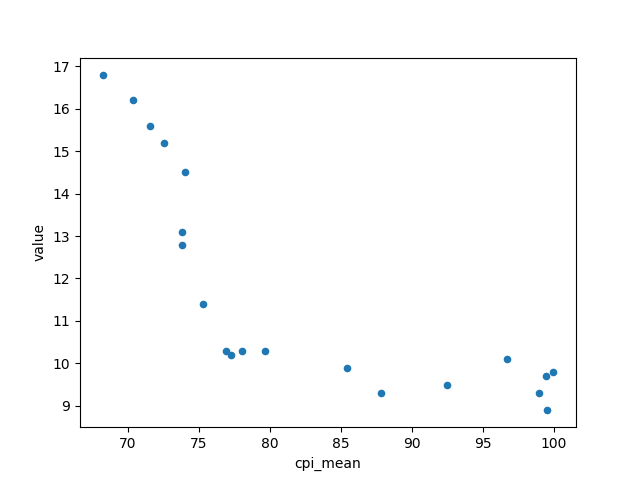
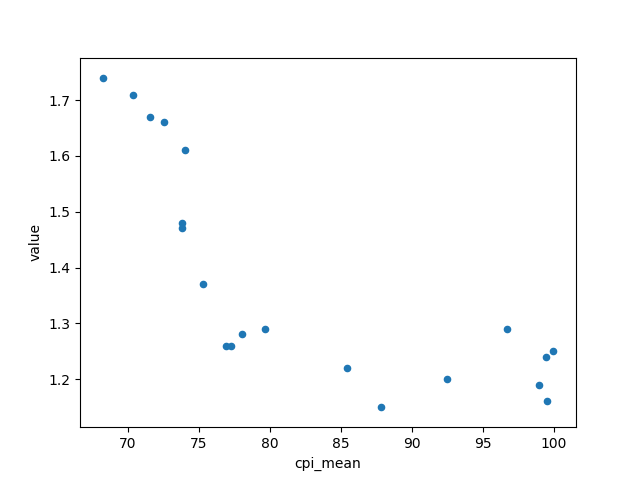
Changed ydata from birth rate to fertility rate

diff --git a/projects.html b/projects.html
@@ -74,6 +74,7 @@
               <ol>
                 <li>Crude Birth Rates, Annually</li>
                 <li>Marriages under the Womens' Charter, Annually</li>
+                <li>Total Fertility Rate, Annually (I actually made a huge mistake and mixed up birth rates and TFR, so I had to redo some of my training)</li>
               </ol>
               <p>
                 All the data was obtained from data.gov in csv file format.
@@ -114,8 +115,8 @@
             <div class="post-part">
               <h3>Step 3: Data Exploration</h3>
               <p>
-                Now that the data has been prettified, it is time for some visualisation to gain insights on the data on hand. From here on, I will foxus on crude
-                birth rates as the predicted y value.
+                Now that the data has been prettified, it is time for some visualisation to gain insights on the data on hand. From here on, I will foxus on total Fertility
+                rate as the predicted y value.
                 <br><br>
                 First, I combined all the features into one large features dataframe. I was initially considering adding polynomial features and performing PCA
                 to narrow down the feature space, but after performing train-test split, my number of data points and number of features became comaparable and I did not
@@ -123,63 +124,61 @@
                 <br><br>
                 Next, I looked at the correlations between the y data and each of the features. By using the pandas .coor() function, I obtained a list of
                 correlations.
-                <br><br>
-                <b>Crude birth rate</b>
               </p>
               <div class="code">
                 <pre class="command-line" data-user="kait" data-host="localhost" data-output="2-25">
 <code class="language-bash">python3 regression_methods.py
 value            1.000000
-overtime_mean    0.850188
-jobvac_mean      0.780938
-jobvac_std       0.737394
-jobvac_corr      0.626325
-overtime_std     0.589957
-cpi_corr         0.462497
-unemp_dir        0.253608
-labcost_dir      0.090970
-unemp_std        0.019510
-labcost_corr     0.010615
-labcost_std     -0.051549
-cpi_dir         -0.126641
-unemp_corr      -0.228851
-overtime_corr   -0.251386
-cpi_std         -0.264826
-overtime_dir    -0.418650
-labcost_mean    -0.440134
-unemp_mean      -0.516196
-jobvac_dir      -0.708656
-cpi_mean        -0.781216
-gdp_value       -0.837611
-year            -0.927946
+overtime_mean    0.854868
+jobvac_mean      0.776832
+jobvac_std       0.736551
+jobvac_corr      0.624030
+overtime_std     0.567258
+cpi_corr         0.464942
+unemp_dir        0.249930
+labcost_dir      0.120821
+labcost_corr     0.029503
+unemp_std        0.014350
+labcost_std     -0.076240
+cpi_dir         -0.132496
+unemp_corr      -0.192243
+overtime_corr   -0.243318
+cpi_std         -0.272496
+labcost_mean    -0.414698
+overtime_dir    -0.427331
+unemp_mean      -0.523999
+jobvac_dir      -0.724803
+cpi_mean        -0.767823
+gdp_value       -0.827605
+year            -0.918486
 Name: value, dtype: float64</code>
                 </pre>
               </div>
               <p>
-                Here you can see that "year" is most highly correlated with the birth rate, which may present as a problem by creating a model that suggests that Singapore's
-                falling birth rate is inevitable. "Overtime_mean" is also highly correlated with crude birth rate, however there is the problem of correlation vs. causation,
+                Here you can see that "year" is most highly correlated with the TFR, which may present as a problem by creating a model that suggests that Singapore's
+                falling birth rate is inevitable. "Overtime_mean" is also highly correlated with TFR, however there is the problem of correlation vs. causation,
                 and the causal effect between these two variables is unclear.
                 <br><br>
-                To gain greater insights, I picked 6 of the features most linearly correlated with crude birth rates and plotted them all against each other in a scatter plot:
+                To gain greater insights, I picked 6 of the features most linearly correlated with total fertility rates and plotted them all against each other in a scatter plot:
               </p>
-              <img src="img/crude-birth-rate_corr_scatter.png" alt="crude-birth-rate scatter plot">
+              <img src="img/total-fertility-rate_corr_scatter.png" alt="total fertility rate scatter plot">
               <p>
-                From the scatter plot we can see that the relationship between "year" and birth rate more closely follows an exponential function, as well as with other factors
+                From the scatter plot we can see that the relationship between "year" and TFR more closely follows an exponential function, as well as with other factors
                 "gdp_value" and "cpi_mean". Thus, I performed an exponential decay function on these three features to hopefully give a better linear correlation between the
-                  features and the y value.
+                features and the y value.
               </p>
               <div id="feattransimages">
                 <div class="img-container">
-                  <img src="img/testingtrans_year.png" alt="crude birth rate vs. year scatter">
-                  <img src="img/testingtrans_decay_year.png" alt="crude birth rate vs. year (decay) scatter">
+                  <img src="img/testingtrans_year.png" alt="TFR vs. year scatter">
+                  <img src="img/testingtrans_decay_year.png" alt="TFR vs. year (decay) scatter">
                 </div>
                 <div class="img-container">
-                  <img src="img/testingtrans_cpi_mean.png" alt="crude birth rate vs. mean cpi scatter">
-                  <img src="img/testingtrans_decay_cpi_mean.png" alt="crude birth rate vs. mean cpi (decay) scatter">
+                  <img src="img/testingtrans_cpi_mean.png" alt="TFR vs. mean cpi scatter">
+                  <img src="img/testingtrans_decay_cpi_mean.png" alt="TFR vs. mean cpi (decay) scatter">
                 </div>
                 <div class="img-container">
-                  <img src="img/testingtrans_gdp_value.png" alt="crude birth rate vs. gdp scatter">
-                  <img src="img/testingtrans_decay_gdp_value.png" alt="crude birth rate vs. gdp (decay) scatter">
+                  <img src="img/testingtrans_gdp_value.png" alt="TFR vs. gdp scatter">
+                  <img src="img/testingtrans_decay_gdp_value.png" alt="TFR vs. gdp (decay) scatter">
                 </div>
               </div>
               <p>
@@ -191,31 +190,31 @@ Name: value, dtype: float64</code>
 <code class="language-bash">python3 regression_methods.py
 Correlation matrix for decay features:
 value              1.000000
-year_decay         0.989801
-gdp_value_decay    0.949187
-cpi_mean_decay     0.917802
-overtime_mean      0.850188
-jobvac_mean        0.780938
-jobvac_std         0.737394
-jobvac_corr        0.626325
-overtime_std       0.589957
-cpi_corr           0.462497
-unemp_dir          0.253608
-labcost_dir        0.090970
-unemp_std          0.019510
-labcost_corr       0.010615
-labcost_std       -0.051549
-cpi_dir           -0.126641
-unemp_corr        -0.228851
-overtime_corr     -0.251386
-cpi_std           -0.264826
-overtime_dir      -0.418650
-labcost_mean      -0.440134
-unemp_mean        -0.516196
-jobvac_dir        -0.708656
-cpi_mean          -0.781216
-gdp_value         -0.837611
-year              -0.927946
+year_decay         0.975068
+gdp_value_decay    0.937049
+cpi_mean_decay     0.904391
+overtime_mean      0.854868
+jobvac_mean        0.776832
+jobvac_std         0.736551
+jobvac_corr        0.624030
+overtime_std       0.567258
+cpi_corr           0.464942
+unemp_dir          0.249930
+labcost_dir        0.120821
+labcost_corr       0.029503
+unemp_std          0.014350
+labcost_std       -0.076240
+cpi_dir           -0.132496
+unemp_corr        -0.192243
+overtime_corr     -0.243318
+cpi_std           -0.272496
+labcost_mean      -0.414698
+overtime_dir      -0.427331
+unemp_mean        -0.523999
+jobvac_dir        -0.724803
+cpi_mean          -0.767823
+gdp_value         -0.827605
+year              -0.918486
 Name: value, dtype: float64</code>
                 </pre>
               </div>
